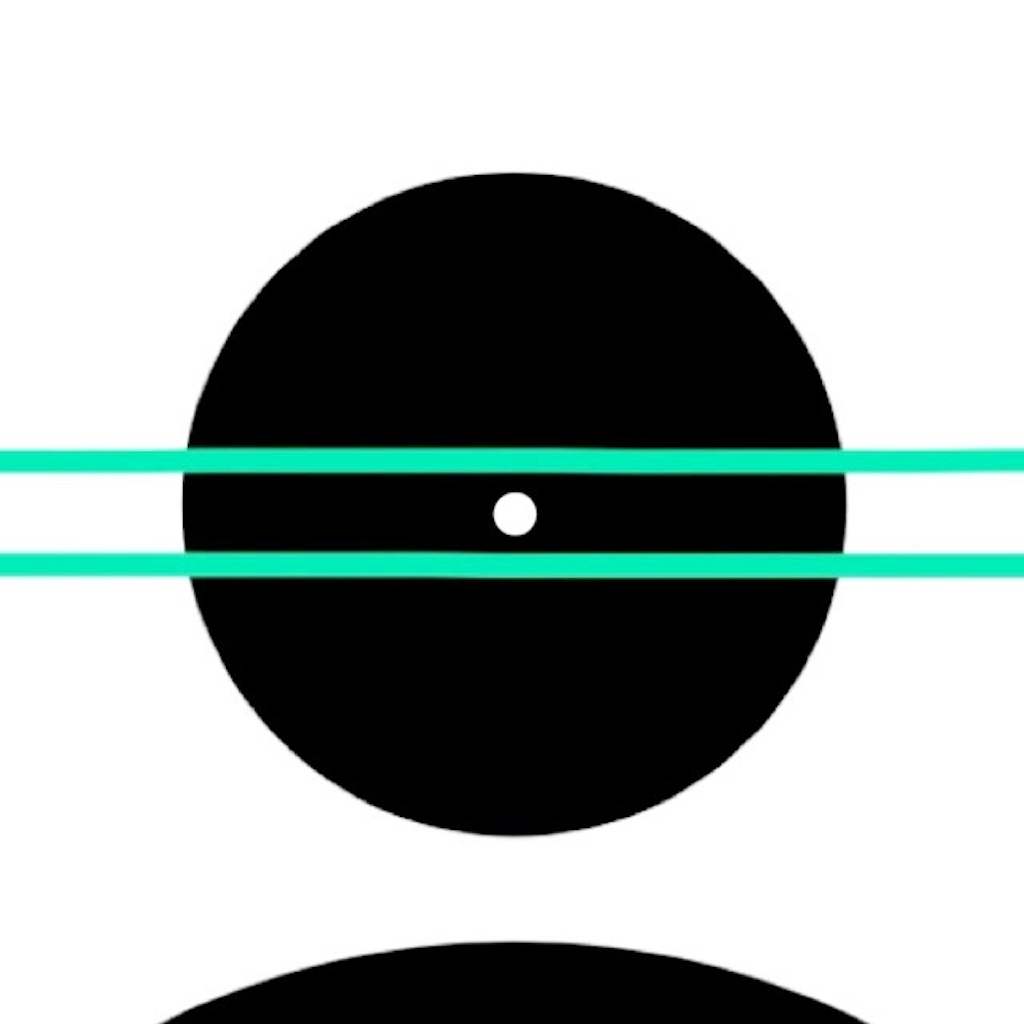
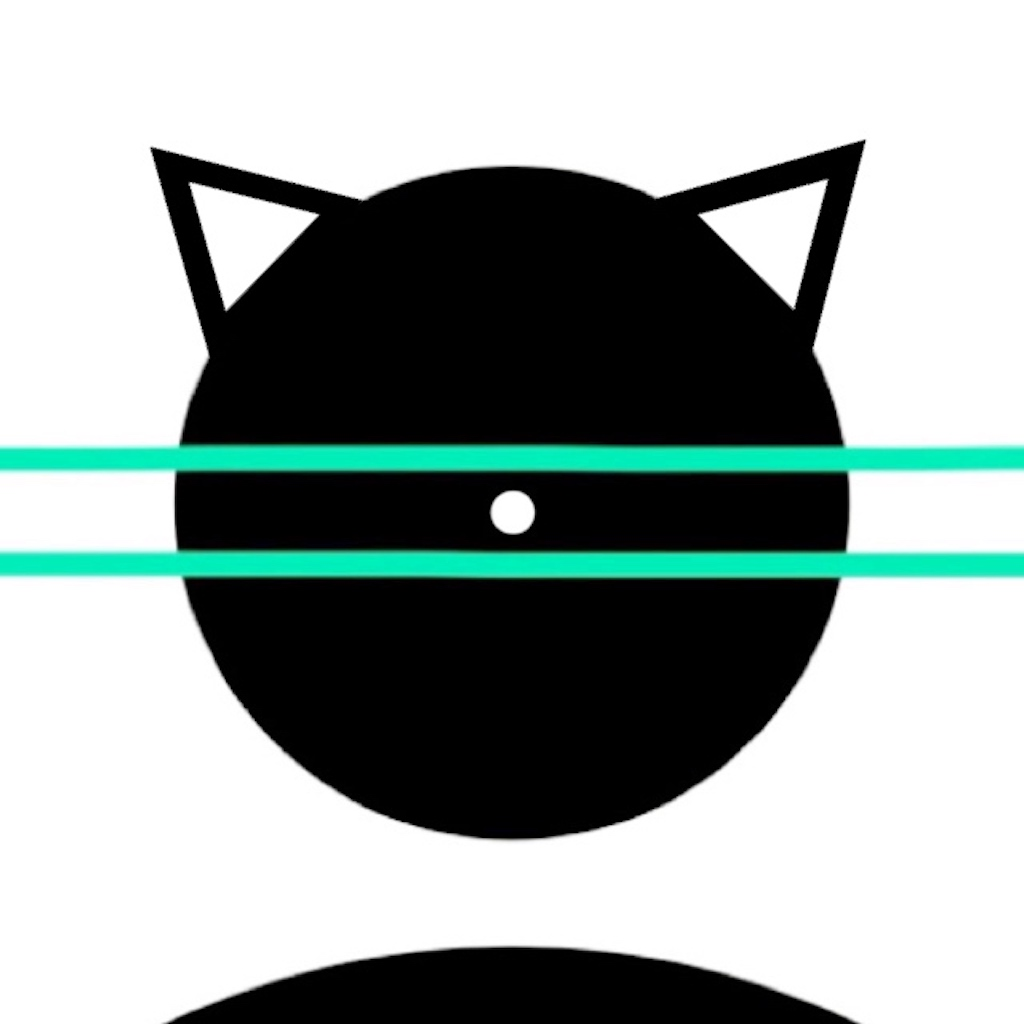
アプリアイコンを変更、サインインページのメソッドの一部をホームページへ移動した

diff --git a/lib/history/history_page.dart b/lib/history/history_page.dart
@@ -462,75 +462,67 @@ class HistoryPage extends StatelessWidget {
                                                                   (BuildContext
                                                                       context) {
                                                                 return SingleTouchContainer(
-                                                                  child:
-                                                                      CupertinoAlertDialog(
-                                                                    title: Text(
-                                                                        "データ削除"),
-                                                                    content: Text(
-                                                                        "計測データの平均値が変化しますが\nデータを削除しますか？"),
-                                                                    actions: [
-                                                                      TextButton(
-                                                                        child:
-                                                                            const Text(
-                                                                          "削除",
-                                                                          style:
-                                                                              TextStyle(color: Colors.red),
-                                                                        ),
-                                                                        onPressed:
-                                                                            () async {
-                                                                          if (_processing)
-                                                                            return;
-                                                                          _processing =
-                                                                              true;
-                                                                          try {
-                                                                            await model.delete(data[index]);
-                                                                            Navigator.of(context).pop();
-                                                                            final snackBar =
-                                                                                SnackBar(
-                                                                              backgroundColor: Colors.red,
-                                                                              content: Text("削除しました"),
-                                                                            );
-                                                                            ScaffoldMessenger.of(context).showSnackBar(snackBar);
-                                                                          } catch (e) {
-                                                                            await showDialog(
-                                                                                barrierColor: Colors.transparent,
-                                                                                context: context,
-                                                                                builder: (BuildContext context) {
-                                                                                  return CupertinoAlertDialog(
-                                                                                    title: Text("エラー"),
-                                                                                    content: Text(e.toString()),
-                                                                                    actions: [
-                                                                                      TextButton(
-                                                                                        child: Text(
-                                                                                          "OK",
+                                                                  child: CupertinoAlertDialog(
+                                                                      title: Text(
+                                                                          "データ削除"),
+                                                                      content: Text(
+                                                                          "計測データの平均値が変化しますが\nデータを削除しますか？"),
+                                                                      actions: [
+                                                                        TextButton(
+                                                                          child:
+                                                                              const Text(
+                                                                            "削除",
+                                                                            style:
+                                                                                TextStyle(color: Colors.red),
+                                                                          ),
+                                                                          onPressed:
+                                                                              () async {
+                                                                            if (_processing)
+                                                                              return;
+                                                                            _processing =
+                                                                                true;
+                                                                            try {
+                                                                              await model.delete(data[index]);
+                                                                              Navigator.of(context).pop();
+                                                                              final snackBar = SnackBar(backgroundColor: Colors.red, content: Text("削除しました"));
+                                                                              ScaffoldMessenger.of(context).showSnackBar(snackBar);
+                                                                            } catch (e) {
+                                                                              await showDialog(
+                                                                                  barrierColor: Colors.transparent,
+                                                                                  context: context,
+                                                                                  builder: (BuildContext context) {
+                                                                                    return CupertinoAlertDialog(
+                                                                                      title: Text("エラー"),
+                                                                                      content: Text(e.toString()),
+                                                                                      actions: [
+                                                                                        TextButton(
+                                                                                          child: Text(
+                                                                                            "OK",
+                                                                                          ),
+                                                                                          onPressed: () {
+                                                                                            Navigator.of(context).pop();
+                                                                                          },
                                                                                         ),
-                                                                                        onPressed: () {
-                                                                                          Navigator.of(context).pop();
-                                                                                        },
-                                                                                      ),
-                                                                                    ],
-                                                                                  );
-                                                                                });
-                                                                          }
-                                                                          Navigator.of(context)
-                                                                              .pop();
-                                                                          _processing =
-                                                                              false;
-                                                                        },
-                                                                      ),
-                                                                      TextButton(
-                                                                        child: Text(
-                                                                            "キャンセル"),
-                                                                        onPressed:
-                                                                            () {
-                                                                          if (_processing)
-                                                                            return;
-                                                                          Navigator.of(context)
-                                                                              .pop();
-                                                                        },
-                                                                      ),
-                                                                    ],
-                                                                  ),
+                                                                                      ],
+                                                                                    );
+                                                                                  });
+                                                                            }
+                                                                            Navigator.of(context).pop();
+                                                                            _processing =
+                                                                                false;
+                                                                          },
+                                                                        ),
+                                                                        TextButton(
+                                                                          child:
+                                                                              Text("キャンセル"),
+                                                                          onPressed:
+                                                                              () {
+                                                                            if (_processing)
+                                                                              return;
+                                                                            Navigator.of(context).pop();
+                                                                          },
+                                                                        ),
+                                                                      ]),
                                                                 );
                                                               },
                                                             );

diff --git a/lib/home/home_model.dart b/lib/home/home_model.dart
@@ -10,6 +10,8 @@ import 'package:posture_correction/camera/camera_page.dart';
 
 import '../utils.dart';
 
+bool gotData = false;
+
 class HomeModel extends ChangeNotifier {
   final _getDate = Timestamp.now().toDate();
 
@@ -20,7 +22,10 @@ class HomeModel extends ChangeNotifier {
       await showConnectError(context);
     } else {
       try {
-        await getUserData();
+        if (gotData == false) {
+          await addUserData();
+          await getUserData();
+        }
         await getAverageData();
       } catch (e) {
         await showError(context);
@@ -53,30 +58,43 @@ class HomeModel extends ChangeNotifier {
   Future<void> showError(context) async {
     return await showDialog(
         context: context,
+        barrierDismissible: false,
         builder: (BuildContext context) {
           return CupertinoAlertDialog(
             title: Text("エラー"),
             content: Text("エラーが発生しました。一度アプリを再起動してください。"),
-            actions: [
-              TextButton(
-                child: const Text("OK"),
-                onPressed: () {
-                  Navigator.of(context).pop();
-                },
-              )
-            ],
           );
         });
   }
 
-  //ユーザーデータを取得する
-  Future<void> getUserData() async {
-    if (FirebaseAuth.instance.currentUser == null) {
+  //firebaseにユーザー情報を追加する
+  Future<void> addUserData() async {
+    final uid = await FirebaseAuth.instance.currentUser?.uid.toString();
+    if (uid == null) {
       throw ("エラーが発生しました。一度アプリを再起動してください。");
     }
-    final user = await FirebaseAuth.instance.currentUser!;
-    Utils.userId = user.uid;
+    final document =
+        await FirebaseFirestore.instance.collection("users").doc(uid).get();
+    final exists = document.exists;
+    //初回ログイン時だけ作動
+    if (exists == false) {
+      await FirebaseFirestore.instance.collection("users").doc(uid).set({
+        "createdAt": Timestamp.now(),
+        "greenLineRange": 15.0,
+        "nekoMode": false,
+        "timeToNotification": 15,
+        "userId": uid,
+      });
+    }
+  }
 
+  //ユーザーデータを取得する
+  Future<void> getUserData() async {
+    final user = await FirebaseAuth.instance.currentUser;
+    if (user == null) {
+      throw ("エラーが発生しました。一度アプリを再起動してください。");
+    }
+    Utils.userId = user.uid;
     print("userId : ${Utils.userId}");
 
     final document = await FirebaseFirestore.instance
@@ -87,11 +105,11 @@ class HomeModel extends ChangeNotifier {
     Utils.greenLineRange = document["greenLineRange"];
     Utils.nekoMode = document["nekoMode"];
     Utils.timeToNotification = document["timeToNotification"];
-
     Utils.showTutorial = false;
+    gotData = true;
   }
 
-  //平均データを計算する
+  //データを『今日・今月・全体』にわけて配列にいれる
   Future<void> getAverageData() async {
     if (FirebaseAuth.instance.currentUser == null) {
       throw ("エラーが発生しました。一度アプリを再起動してください。");

diff --git a/lib/signin/signin_model.dart b/lib/signin/signin_model.dart
@@ -50,20 +50,6 @@ class SignInModel extends ChangeNotifier {
     if (FirebaseAuth.instance.currentUser == null) {
       throw ("エラーが発生しました。一度アプリを再起動してください。");
     }
-    final uid = userCredential.user!.uid;
-    final document =
-        await FirebaseFirestore.instance.collection("users").doc(uid).get();
-    final exists = document.exists;
-    //初回ログイン時だけ作動
-    if (exists == false) {
-      await FirebaseFirestore.instance.collection("users").doc(uid).set({
-        "createdAt": Timestamp.now(),
-        "greenLineRange": 15.0,
-        "nekoMode": false,
-        "timeToNotification": 15,
-        "userId": uid,
-      });
-    }
     return userCredential;
   }
 
@@ -84,20 +70,6 @@ class SignInModel extends ChangeNotifier {
         await FirebaseAuth.instance.signInWithCredential(oauthCredential);
     if (FirebaseAuth.instance.currentUser == null) {
       throw ("エラーが発生しました。一度アプリを再起動してください。");
-    }
-    final uid = userCredential.user!.uid;
-    final document =
-        await FirebaseFirestore.instance.collection("users").doc(uid).get();
-    final exists = document.exists;
-    //初回ログイン時だけ作動
-    if (exists == false) {
-      await FirebaseFirestore.instance.collection("users").doc(uid).set({
-        "createdAt": Timestamp.now(),
-        "greenLineRange": 15.0,
-        "nekoMode": false,
-        "timeToNotification": 15,
-        "userId": uid,
-      });
     }
     return userCredential;
   }

diff --git a/lib/setting/setting_model.dart b/lib/setting/setting_model.dart
@@ -3,6 +3,7 @@ import 'package:connectivity_plus/connectivity_plus.dart';
 import 'package:firebase_auth/firebase_auth.dart';
 import 'package:flutter/cupertino.dart';
 import 'package:google_sign_in/google_sign_in.dart';
+import 'package:posture_correction/home/home_model.dart';
 import 'package:posture_correction/signin/signin_page.dart';
 import 'package:posture_correction/utils.dart';
 
@@ -119,6 +120,7 @@ class SettingModel extends ChangeNotifier {
     Utils.totalMeasurementTimeForAll = 0;
     Utils.totalMeasurementTimeForThisMonth = 0;
     Utils.totalMeasurementTimeForTheDay = 0;
+    gotData = false;
   }
 
   //アカウント削除
@@ -135,7 +137,7 @@ class SettingModel extends ChangeNotifier {
     try {
       await FirebaseAuth.instance.currentUser!.delete();
     } catch (e) {
-      throw ("アカウントが削除出来ませんでした。\nログインし直してもう一度試してください。");
+      throw ("アカウントが削除出来ませんでした。\n一度ログアウトし、再ログインした後にもう一度試してください。");
     }
     await FirebaseAuth.instance.signOut();
     Utils.userId = "";
@@ -150,5 +152,6 @@ class SettingModel extends ChangeNotifier {
     Utils.totalMeasurementTimeForAll = 0;
     Utils.totalMeasurementTimeForThisMonth = 0;
     Utils.totalMeasurementTimeForTheDay = 0;
+    gotData = false;
   }
 }
